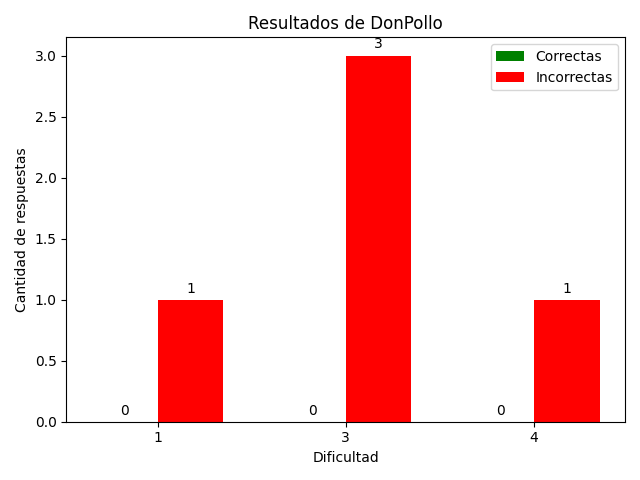
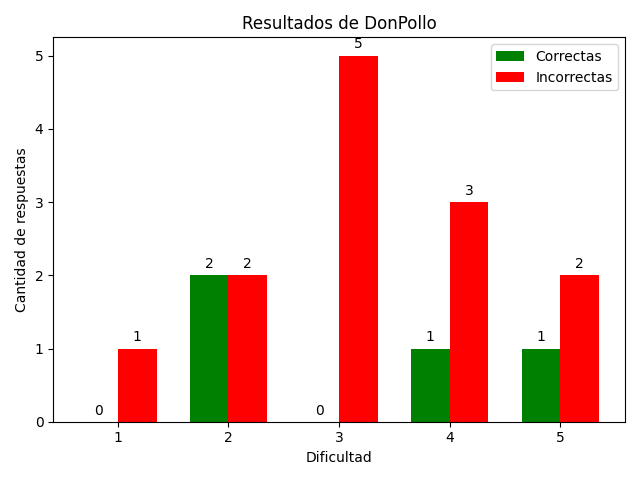
ahora si pilla bien las dificultades, voy a hacer que filtre por tipo de pregunta

diff --git a/back/node/server.js b/back/node/server.js
@@ -141,20 +141,21 @@ app.get('/preguntas', async (req, res) => {
 
 // Ruta para guardar resultados
 app.post('/guardar-resultado', async (req, res) => {
-  const { preguntaId, dificultad, esCorrecto, nombreAlumno } = req.body;
+  const { preguntaId, dificultad, esCorrecto, nombreAlumno, tipoPregunta } = req.body;
 
   console.log('Datos recibidos:', req.body);
 
   try {
     // Validar los datos recibidos
-    if (!preguntaId || !dificultad || esCorrecto === undefined || !nombreAlumno) {
+    if (!preguntaId || !dificultad || esCorrecto === undefined || !nombreAlumno ||!tipoPregunta) {
       return res.status(400).json({
         mensaje: 'Datos incompletos',
         detalles: 'Faltan los siguientes campos: ' +
                   (preguntaId ? '' : 'preguntaId, ') +
                   (dificultad ? '' : 'dificultad, ') +
                   (esCorrecto === undefined ? 'esCorrecto, ' : '') +
-                  (nombreAlumno ? '' : 'nombreAlumno')
+                  (nombreAlumno ? '' : 'nombreAlumno') +
+                  (tipoPregunta ? '' : 'tipoPregunta')
       });
     }
 
@@ -164,6 +165,7 @@ app.post('/guardar-resultado', async (req, res) => {
       dificultad,
       esCorrecto,
       nombreAlumno,
+      tipoPregunta,
     });
     await nuevoResultado.save();
 
@@ -185,13 +187,13 @@ app.post('/guardar-resultado', async (req, res) => {
     if (estadisticas.length > 0) {
       // Si el alumno ya tiene estadísticas, actualizamos el campo `valores`
       const resultadosActualizados = JSON.parse(estadisticas[0].valores);  // Parseamos el JSON almacenado
-      resultadosActualizados.push({ preguntaId, dificultad, esCorrecto, nombreAlumno});
+      resultadosActualizados.push({ preguntaId, dificultad, esCorrecto, nombreAlumno, tipoPregunta});
 
       // Actualizamos la base de datos con los nuevos resultados
       await connection.execute('UPDATE estadisticas SET valores = ? WHERE alumno_id = ?', [JSON.stringify(resultadosActualizados), alumno_id]);
     } else {
       // Si no tiene estadísticas, creamos un nuevo registro
-      const valoresIniciales = [{ preguntaId, dificultad, esCorrecto }];
+      const valoresIniciales = [{ preguntaId, dificultad, esCorrecto, nombreAlumno, tipoPregunta }];
       await connection.execute('INSERT INTO estadisticas (alumno_id, valores) VALUES (?, ?)', [alumno_id, JSON.stringify(valoresIniciales)]);
     }
 

diff --git a/front/vuetify-project/src/services/playerManager.js b/front/vuetify-project/src/services/playerManager.js
@@ -49,7 +49,7 @@ export default {
     // Método para obtener el nombre del alumno
     async obtenerAlumno() {
       try {
-        const response = await fetch('http://localhost:3000/alumno/2'); // Suponiendo que el id del alumno es 1
+        const response = await fetch('http://localhost:3000/alumno/1'); // Suponiendo que el id del alumno es 1
         const data = await response.json();
         if (data.nom) {
           this.nom = data.nom; // Asignamos el nombre del alumno
@@ -201,6 +201,7 @@ export default {
       // Accede a los campos 'id' y 'difficulty_level' de 'preguntaActual'
       const preguntaId = this.preguntaActual.id; // Usamos el 'id' de la pregunta
       const dificultad = this.preguntaActual.difficulty_level; // Usamos 'difficulty_level' de la pregunta
+      const tipoPregunta = this.preguntaActual.type;
 
       try {
         const response = await fetch('http://localhost:3000/guardar-resultado', {
@@ -213,6 +214,7 @@ export default {
             dificultad,
             esCorrecto,
             nombreAlumno,
+            tipoPregunta,
           }),
         });
 

diff --git a/back/node/models/valors.js b/back/node/models/valors.js
@@ -5,6 +5,7 @@ const ResultadoSchema = new mongoose.Schema({
   dificultad: { type: Number, required: true },
   esCorrecto: { type: Boolean, required: true },
   nombreAlumno: { type: String, required: true }, // Nuevo campo para el nombre del alumno
+  tipoPregunta: { type: String, required: true },
   fecha: { type: Date, default: Date.now }, // Fecha de registro
 });
 

diff --git a/front/vuetify-project/src/pages/index.vue b/front/vuetify-project/src/pages/index.vue
@@ -1,8 +1,8 @@
 <template>
-  <!--<CarrilesCarrera />-->
-  <Estadisticas />
-  <!--<CarrilJugador />-->
-  <!--<dado />-->
+   <!-- <CarrilesCarrera />
+  <dado />
+  <CarrilJugador /> -->
+  <Estadisticas /> 
 </template>
 
 <script setup>

diff --git a/back/python/estadisticaAlumno.py b/back/python/estadisticaAlumno.py
@@ -84,7 +84,7 @@ if __name__ == "__main__":
             dificultad = resultado['dificultad']
             es_correcto = resultado['esCorrecto']
 
-            if dificultad not in range(1, 5):  # Filtrar dificultades no válidas
+            if dificultad not in range(1, 6):  # Filtrar dificultades no válidas
                 continue
 
             if dificultad not in datos:
